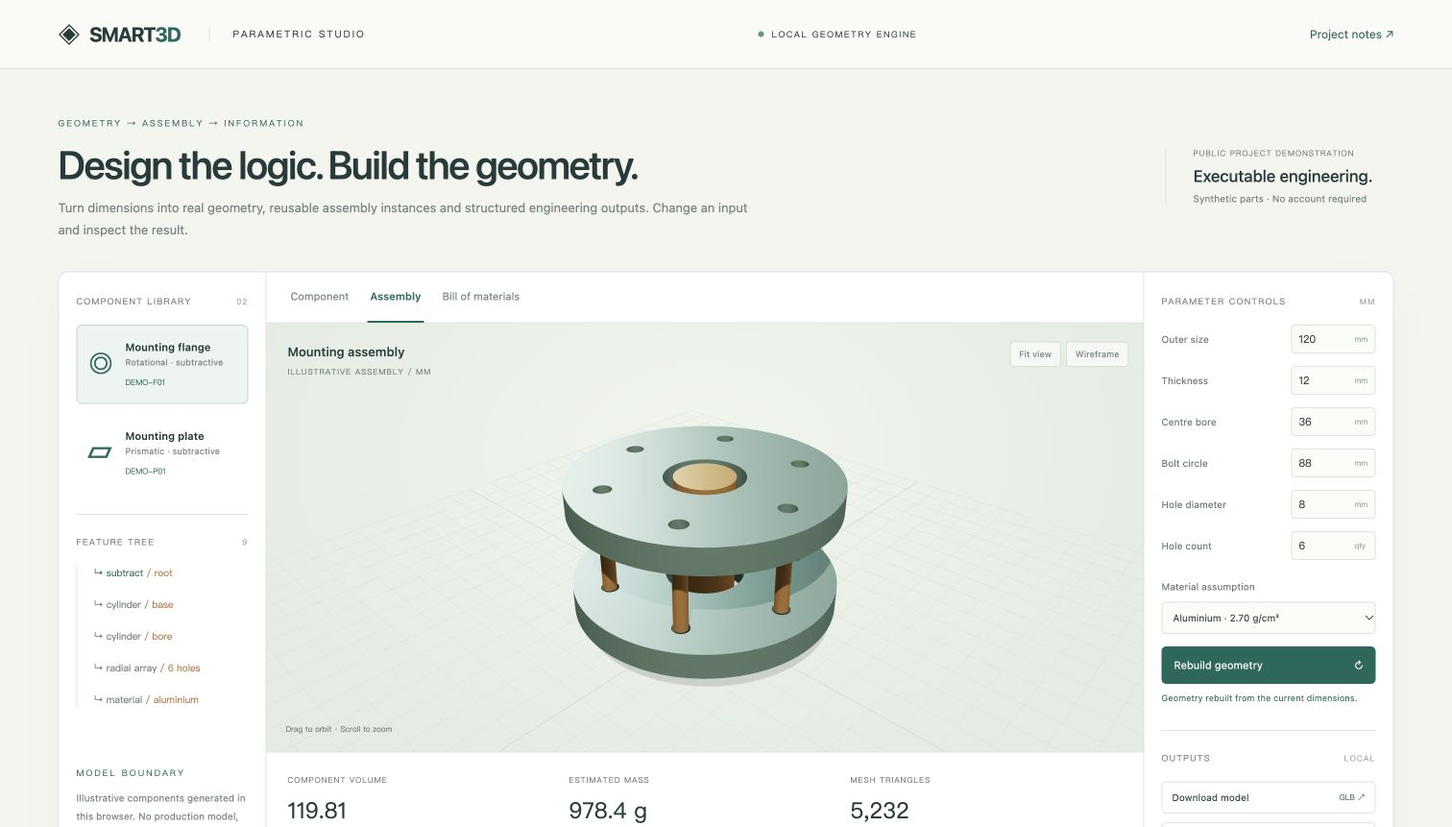
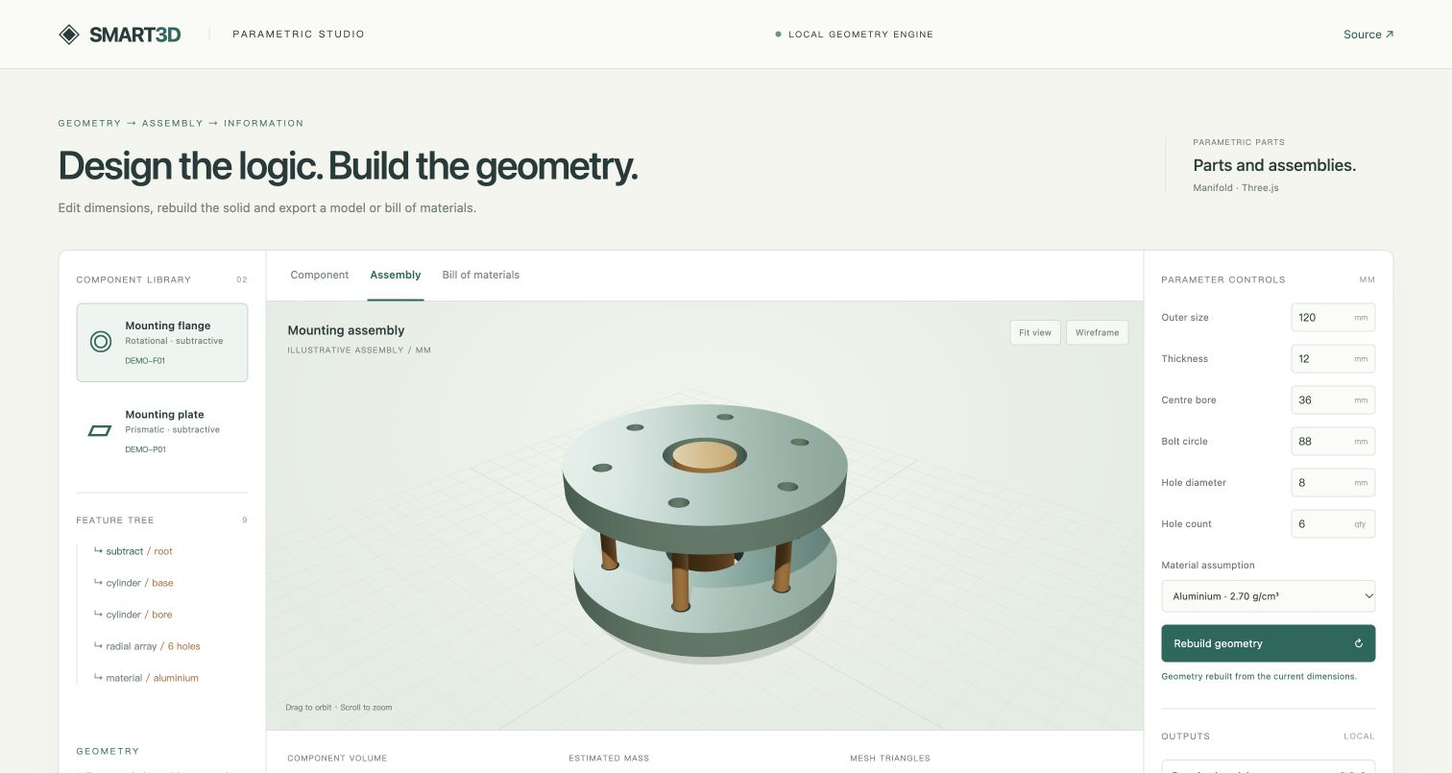
Track source and shorten project notes

diff --git a/index.html b/index.html
@@ -1,11 +1,9 @@
-<!doctype html><html lang="en" translate="no"><head><meta charset="UTF-8"><meta name="viewport" content="width=device-width,initial-scale=1"><meta name="referrer" content="no-referrer"><title>SMART3D · Parametric Studio</title>  <script type="module" crossorigin src="./app.js"></script>
-  <link rel="stylesheet" crossorigin href="./index.css">
-</head><body>
-<header class="topbar"><a class="brand" href="./">◈ <b>SMART<span>3D</span></b><i>PARAMETRIC STUDIO</i></a><span class="status"><i></i> LOCAL GEOMETRY ENGINE</span><a href="#project">Project notes ↗</a></header>
-<div class="intro"><div><span class="eyebrow">GEOMETRY → ASSEMBLY → INFORMATION</span><h1>Design the logic. Build the geometry.</h1><p>Turn dimensions into real geometry, reusable assembly instances and structured engineering outputs. Change an input and inspect the result.</p></div><div class="project-label"><span>PUBLIC PROJECT DEMONSTRATION</span><b>Executable engineering.</b><small>Synthetic parts · No account required</small></div></div>
-<main class="studio"><aside class="library"><div class="panel-heading">COMPONENT LIBRARY<span>02</span></div><button class="part active" data-part="flange"><span class="part-icon">◎</span><b>Mounting flange</b><small>Rotational · subtractive</small><em>DEMO-F01</em></button><button class="part" data-part="plate"><span class="part-icon">▱</span><b>Mounting plate</b><small>Prismatic · subtractive</small><em>DEMO-P01</em></button><div class="divider"></div><div class="panel-heading">FEATURE TREE<span id="node-count">—</span></div><ol class="tree" id="feature-tree"></ol><div class="library-note"><span class="eyebrow">MODEL BOUNDARY</span><p>Illustrative components generated in this browser. No production model, tenant record or backend service is connected.</p></div></aside>
-<section class="viewport-panel"><nav class="tabs" aria-label="Studio view"><button data-mode="component" aria-pressed="true">Component</button><button data-mode="assembly" aria-pressed="false">Assembly</button><button data-mode="bom" aria-pressed="false">Bill of materials</button></nav><div class="viewport" id="viewport"><div class="viewport-label"><b id="part-title">Mounting flange</b><span id="view-subtitle">PARAMETRIC COMPONENT / MM</span></div><div class="view-tools"><button id="fit">Fit view</button><button id="wire" aria-pressed="false">Wireframe</button></div><div class="view-tip">Drag to orbit · Scroll to zoom</div><div id="loading" role="status">Preparing geometry engine…</div></div><div class="metrics"><div><small>COMPONENT VOLUME</small><b id="volume">—</b><span>cm³ / discretised mesh</span></div><div><small>ESTIMATED MASS</small><b id="mass">—</b><span id="density-note">density assumption</span></div><div><small>MESH TRIANGLES</small><b id="triangles">—</b><span>Computed mesh, not a benchmark</span></div></div></section>
-<aside class="properties"><div class="panel-heading">PARAMETER CONTROLS<span>MM</span></div><form id="parameters"><label>Outer size <div><input name="outer" type="number" min="60" max="200" step="1" value="120" required><span>mm</span></div></label><label>Thickness <div><input name="thickness" type="number" min="4" max="30" step="1" value="12" required><span>mm</span></div></label><label>Centre bore <div><input name="bore" type="number" min="8" max="80" step="1" value="36" required><span>mm</span></div></label><label>Bolt circle <div><input name="pitch" type="number" min="35" max="170" step="1" value="88" required><span>mm</span></div></label><label>Hole diameter <div><input name="hole" type="number" min="3" max="16" step="1" value="8" required><span>mm</span></div></label><label>Hole count <div><input name="count" type="number" min="3" max="12" step="1" value="6" required><span>qty</span></div></label><label>Material assumption<select name="material"><option value="aluminium">Aluminium · 2.70 g/cm³</option><option value="steel">Steel · 7.85 g/cm³</option><option value="polymer">Polymer · 1.20 g/cm³</option></select></label><button class="primary" type="submit">Rebuild geometry <span>↻</span></button></form><div id="notice" role="status"></div><div class="divider"></div><div class="panel-heading">OUTPUTS<span>LOCAL</span></div><button class="output" id="export-glb">Download model <span>GLB ↗</span></button><button class="output" id="export-bom">Download BOM <span>CSV ↗</span></button><button class="output" id="export-params">Download parameters <span>JSON ↗</span></button><p class="fine">Mass is derived from mesh volume and an assumed density. No strength, tolerance or manufacturing suitability is asserted.</p></aside></main>
+<!doctype html><html lang="en" translate="no"><head><meta charset="UTF-8"><meta name="viewport" content="width=device-width,initial-scale=1"><meta name="referrer" content="no-referrer"><title>SMART3D · Parametric Studio</title></head><body>
+<header class="topbar"><a class="brand" href="./">◈ <b>SMART<span>3D</span></b><i>PARAMETRIC STUDIO</i></a><span class="status"><i></i> LOCAL GEOMETRY ENGINE</span><a href="https://github.com/007jackiegao-cmd/smart3d-showcase">Source ↗</a></header>
+<div class="intro"><div><span class="eyebrow">GEOMETRY → ASSEMBLY → INFORMATION</span><h1>Design the logic. Build the geometry.</h1><p>Edit dimensions, rebuild the solid and export a model or bill of materials.</p></div><div class="project-label"><span>PARAMETRIC PARTS</span><b>Parts and assemblies.</b><small>Manifold · Three.js</small></div></div>
+<main class="studio"><aside class="library"><div class="panel-heading">COMPONENT LIBRARY<span>02</span></div><button class="part active" data-part="flange"><span class="part-icon">◎</span><b>Mounting flange</b><small>Rotational · subtractive</small><em>DEMO-F01</em></button><button class="part" data-part="plate"><span class="part-icon">▱</span><b>Mounting plate</b><small>Prismatic · subtractive</small><em>DEMO-P01</em></button><div class="divider"></div><div class="panel-heading">FEATURE TREE<span id="node-count">—</span></div><ol class="tree" id="feature-tree"></ol><div class="library-note"><span class="eyebrow">GEOMETRY</span><p>A flange and plate with a centre bore and radial hole array.</p></div></aside>
+<section class="viewport-panel"><nav class="tabs" aria-label="Studio view"><button data-mode="component" aria-pressed="true">Component</button><button data-mode="assembly" aria-pressed="false">Assembly</button><button data-mode="bom" aria-pressed="false">Bill of materials</button></nav><div class="viewport" id="viewport"><div class="viewport-label"><b id="part-title">Mounting flange</b><span id="view-subtitle">PARAMETRIC COMPONENT / MM</span></div><div class="view-tools"><button id="fit">Fit view</button><button id="wire" aria-pressed="false">Wireframe</button></div><div class="view-tip">Drag to orbit · Scroll to zoom</div><div id="loading" role="status">Preparing geometry engine…</div></div><div class="metrics"><div><small>COMPONENT VOLUME</small><b id="volume">—</b><span>cm³ / discretised mesh</span></div><div><small>ESTIMATED MASS</small><b id="mass">—</b><span id="density-note">density assumption</span></div><div><small>MESH TRIANGLES</small><b id="triangles">—</b><span>Current mesh</span></div></div></section>
+<aside class="properties"><div class="panel-heading">PARAMETER CONTROLS<span>MM</span></div><form id="parameters"><label>Outer size <div><input name="outer" type="number" min="60" max="200" step="1" value="120" required><span>mm</span></div></label><label>Thickness <div><input name="thickness" type="number" min="4" max="30" step="1" value="12" required><span>mm</span></div></label><label>Centre bore <div><input name="bore" type="number" min="8" max="80" step="1" value="36" required><span>mm</span></div></label><label>Bolt circle <div><input name="pitch" type="number" min="35" max="170" step="1" value="88" required><span>mm</span></div></label><label>Hole diameter <div><input name="hole" type="number" min="3" max="16" step="1" value="8" required><span>mm</span></div></label><label>Hole count <div><input name="count" type="number" min="3" max="12" step="1" value="6" required><span>qty</span></div></label><label>Material assumption<select name="material"><option value="aluminium">Aluminium · 2.70 g/cm³</option><option value="steel">Steel · 7.85 g/cm³</option><option value="polymer">Polymer · 1.20 g/cm³</option></select></label><button class="primary" type="submit">Rebuild geometry <span>↻</span></button></form><div id="notice" role="status"></div><div class="divider"></div><div class="panel-heading">OUTPUTS<span>LOCAL</span></div><button class="output" id="export-glb">Download model <span>GLB ↗</span></button><button class="output" id="export-bom">Download BOM <span>CSV ↗</span></button><button class="output" id="export-params">Download parameters <span>JSON ↗</span></button><p class="fine">Mass = mesh volume × selected density.</p></aside></main>
 <section class="bom-section" id="bom-section" hidden><div class="section-title"><div><span class="eyebrow">ASSEMBLY INFORMATION</span><h2>From instances to a bill of materials.</h2></div><p>Two matching components, one shaft and a circular spacer array. Quantities and mass follow the current parameters.</p></div><table><thead><tr><th>Part</th><th>Specification</th><th>Material</th><th>Quantity</th><th>Unit mass / g</th><th>Total / g</th></tr></thead><tbody id="bom-body"></tbody></table></section>
-<section class="case-study" id="project"><div><span class="eyebrow">THE PROJECT</span><h2>Design intent.<br>Connected outputs.</h2><p>SMART3D connects parametric part definitions, solid geometry, assembly composition and engineering information in one inspectable workflow.</p><a href="ARCHITECTURE.md">Explore the architecture ↗</a></div><div class="capabilities"><article><span>01 / DEFINE</span><h3>Parametric design intent</h3><p>The private project includes expression-driven shape trees, parameter overrides and component versions. This public demo exposes a focused set of dimensions.</p></article><article><span>02 / COMPOSE</span><h3>Reusable parts. Connected assemblies.</h3><p>The project separates reusable component definitions from their placed instances. Here, a simple mounting set makes the distinction visible.</p></article><article><span>03 / TRACE</span><h3>Geometry with traceable information</h3><p>Follow the resulting mesh through volume, density-based mass, quantity aggregation and GLB/CSV export.</p></article><article><span>04 / EXTEND</span><h3>An explicit contract for future AI</h3><p>Natural-language modelling has a defined contract in the source project. The LLM parser is reserved and is not active in this demonstration.</p></article></div></section>
-<footer><span>SMART3D · Research & engineering prototype</span><span>AI-assisted public presentation · Manifold + Three.js · <a href="VALIDATION.md">Validation & limits ↗</a></span></footer></body></html>
+
+<footer><span>SMART3D</span><span>Manifold · Three.js</span></footer><script type="module" src="./studio.js"></script></body></html>

diff --git a/studio.css b/studio.css
@@ -1,0 +1,1 @@
+:root{--paper:#f5f5f0;--panel:#fff;--ink:#233b3a;--muted:#748580;--line:#dce3df;--teal:#12695c;--accent:#c7804a;font-family:Inter,-apple-system,BlinkMacSystemFont,"Segoe UI",sans-serif;color:var(--ink);background:var(--paper);font-synthesis:none}*{box-sizing:border-box}body{margin:0}button,input,select{font:inherit}button{cursor:pointer}a{color:var(--teal);text-decoration:none}a:hover{text-decoration:underline}.topbar{height:72px;padding:0 4vw;display:flex;align-items:center;justify-content:space-between;border-bottom:1px solid var(--line);background:#fafbf7}.brand{display:flex;gap:10px;align-items:center;color:var(--ink);font-size:26px}.brand b{font-size:21px;letter-spacing:-1px}.brand b span{color:var(--teal)}.brand i{font:10px ui-monospace;letter-spacing:2px;font-style:normal;margin-left:20px;padding-left:24px;border-left:1px solid var(--line)}.topbar>a:last-child{font-size:12px}.status{font:9px ui-monospace;letter-spacing:1.5px;display:flex;gap:8px;align-items:center}.status i{width:6px;height:6px;background:#4f9b72;border-radius:50%}.intro{max-width:1580px;margin:auto;display:flex;justify-content:space-between;gap:28px;padding:44px 4vw 32px}.eyebrow{font:9px ui-monospace;letter-spacing:2px;color:var(--teal)}h1{font-size:clamp(25px,3vw,41px);letter-spacing:-1.5px;font-weight:550;margin:12px 0 10px}p{font-size:13px;line-height:1.75;color:var(--muted);margin:0}.intro p{max-width:720px}.project-label{align-self:center;border-left:1px solid var(--line);padding-left:28px;min-width:238px;display:grid;gap:8px}.project-label>span{font:8px ui-monospace;letter-spacing:1px;color:var(--muted)}.project-label>b{font-size:17px;font-weight:500}.project-label>small{font-size:10px;color:var(--muted)}.studio{margin:0 auto;max-width:1460px;width:92%;display:grid;grid-template-columns:216px minmax(360px,1fr) 260px;border:1px solid var(--line);border-radius:10px;overflow:hidden;background:var(--panel);box-shadow:0 18px 44px #32494008}.library,.properties{padding:24px 18px}.library{border-right:1px solid var(--line)}.properties{border-left:1px solid var(--line)}.panel-heading{font:9px ui-monospace;letter-spacing:1.25px;display:flex;justify-content:space-between;align-items:center;margin-bottom:18px;color:var(--muted)}.panel-heading>span{font-size:8px;color:#94a59f}.part{display:grid;grid-template-columns:34px 1fr;gap:4px 6px;text-align:left;width:100%;border:1px solid transparent;background:none;padding:16px 10px;border-radius:6px;margin-bottom:10px;color:var(--ink)}.part.active{background:#edf4ef;border-color:#c3d8cc}.part-icon{grid-row:1/4;font-size:29px;color:var(--teal);line-height:1.6}.part b{font-size:11px;font-weight:600}.part small{font-size:9px;color:var(--muted)}.part em{font:8px ui-monospace;color:var(--teal);font-style:normal;margin-top:6px}.divider{height:1px;background:var(--line);margin:22px 0}.tree{padding:0 0 0 17px;margin:0;border-left:1px solid var(--line);list-style:none;font:10px ui-monospace;color:var(--muted)}.tree li{margin:17px 0;line-height:1.6}.tree li:first-child{color:var(--teal)}.tree i{color:#bc7847;font-style:normal}.library-note{margin-top:56px}.library-note p{font-size:10px;line-height:1.9;margin-top:10px}.tabs{display:flex;gap:16px;padding:0 22px;height:53px;align-items:center;border-bottom:1px solid var(--line)}.tabs button{height:53px;border:0;border-bottom:2px solid transparent;background:none;color:var(--muted);font-size:11px;padding:0 3px}.tabs button[aria-pressed=true]{border-color:var(--teal);color:var(--teal);font-weight:600}.viewport{height:446px;position:relative;background:radial-gradient(ellipse at 50% 30%,#f0f5ed,#e3ece3 82%);overflow:hidden}.viewport canvas{position:absolute;inset:0;display:block;touch-action:none}.viewport-label{position:absolute;z-index:2;left:22px;top:22px;display:grid;gap:8px;pointer-events:none}.viewport-label b{font-size:13px;font-weight:550}.viewport-label span{font:8px ui-monospace;letter-spacing:1px;color:var(--muted)}.view-tools{position:absolute;top:19px;right:15px;display:flex;gap:5px;z-index:2}.view-tools button{padding:7px 9px;border:1px solid #d2dfd3;background:#f9fbf7c9;border-radius:4px;color:var(--muted);font-size:9px}.view-tools button[aria-pressed=true]{color:var(--teal);border-color:var(--teal)}.view-tip{position:absolute;bottom:18px;left:20px;font:8px ui-monospace;color:var(--muted);z-index:2}.metrics{display:grid;grid-template-columns:repeat(3,1fr);padding:23px 22px;border-top:1px solid var(--line);gap:10px}.metrics>div{display:grid;gap:10px}.metrics small{font:8px ui-monospace;letter-spacing:1px;color:var(--muted)}.metrics b{font:23px ui-monospace;color:var(--ink)}.metrics span{font-size:8px;color:var(--muted)}form label{font-size:10px;color:#647770;display:grid;grid-template-columns:1fr 88px;align-items:center;margin-bottom:13px}form label>div{display:flex;align-items:center;border:1px solid var(--line);border-radius:4px;height:30px;background:#fbfcf8}form label input{width:65px;border:0;background:none;padding:5px 7px;font:11px ui-monospace;color:var(--ink)}form label input:focus{outline:none}form label:focus-within>div{border-color:var(--teal)}form label>div>span{font:8px ui-monospace;color:#98aaa1}form label:has(select){display:block;margin-top:22px}select{width:100%;border:1px solid var(--line);border-radius:4px;background:#fbfcf8;padding:9px 7px;color:var(--ink);font-size:10px;margin-top:10px}.primary{width:100%;background:var(--teal);color:#fff;border:0;border-radius:5px;padding:13px;margin-top:8px;font-size:11px;display:flex;justify-content:space-between;align-items:center}.output{width:100%;display:flex;justify-content:space-between;background:none;border:1px solid var(--line);border-radius:5px;padding:10px;margin-bottom:9px;text-align:left;color:var(--ink);font-size:10px}.output>span{font:8px ui-monospace;color:var(--teal)}.fine{font-size:9px;line-height:1.8;margin-top:15px}#notice{min-height:18px;font-size:9px;color:var(--teal);line-height:1.5;margin-top:8px}#notice.error{color:#b85039}#loading{position:absolute;inset:0;display:grid;place-items:center;font-size:13px;background:#eff4eddf;z-index:3}#loading[hidden]{display:none}.bom-section,.case-study{max-width:1460px;margin:44px auto;width:92%}.section-title{display:flex;justify-content:space-between;gap:40px;align-items:end;margin-bottom:25px}.section-title p{max-width:460px;font-size:11px}h2{font-size:29px;line-height:1.3;font-weight:500;letter-spacing:-1px;margin:14px 0 20px}table{width:100%;border-collapse:collapse;background:#fff;font-size:11px}th,td{text-align:left;padding:15px 18px;border-bottom:1px solid var(--line)}th{background:#edf3ed;color:var(--muted);font:9px ui-monospace}.case-study{padding:50px 0;display:grid;grid-template-columns:1fr 1.4fr;gap:100px;border-top:1px solid var(--line);margin-top:75px}.case-study>div:first-child>p{max-width:400px;margin-bottom:24px}.case-study a{font-size:11px}.capabilities{display:grid;grid-template-columns:1fr 1fr;gap:34px}.capabilities article>span{font:9px ui-monospace;color:var(--teal)}.capabilities h3{font-size:14px;font-weight:550;margin:12px 0}.capabilities p{font-size:11px}footer{border-top:1px solid var(--line);padding:25px 4vw;display:flex;justify-content:space-between;font:9px ui-monospace;color:var(--muted)}:focus-visible{outline:2px solid var(--teal);outline-offset:3px}@media(min-width:1600px){.viewport{height:540px}}@media(max-width:1100px){.studio{grid-template-columns:175px minmax(250px,1fr) 230px}.library,.properties{padding:19px 13px}.tabs{gap:9px;padding:0 13px}.tabs button{font-size:10px}.project-label{display:none}}@media(max-width:800px){.brand i,.status{display:none}.intro{padding-top:30px}.studio{grid-template-columns:1fr}.library{display:none}.properties{border-left:0;border-top:1px solid var(--line)}form{display:grid;grid-template-columns:1fr 1fr;gap:5px 22px}form label{margin-bottom:8px}.primary{align-self:end;margin-bottom:8px}.viewport{height:370px}.metrics b{font-size:20px}.case-study{grid-template-columns:1fr;gap:30px;margin-top:45px}.section-title{display:block}th,td{padding:10px 7px;font-size:9px}.section-title p{margin:0 0 15px}footer{display:grid;gap:15px}.view-tools{top:62px}}

diff --git a/studio.js b/studio.js
@@ -1,0 +1,41 @@
+import './studio.css';
+import * as THREE from 'three';
+import {OrbitControls} from 'three/addons/controls/OrbitControls.js';
+import {GLTFExporter} from 'three/addons/exporters/GLTFExporter.js';
+import Module from 'manifold-3d';
+import wasmUrl from 'manifold-3d/manifold.wasm?url';
+import {buildPart,holes,summary,densities} from './geometry-demo.js';
+const $=id=>document.getElementById(id),form=$('parameters');let mode='component',kind='flange',wire=false,current,params,geometry,engine;
+const area=$('viewport');const scene=new THREE.Scene();const camera=new THREE.PerspectiveCamera(34,1,.1,3000);camera.up.set(0,0,1);camera.position.set(185,-200,155);
+const renderer=new THREE.WebGLRenderer({antialias:true,alpha:true});renderer.setPixelRatio(Math.min(devicePixelRatio,2));renderer.setClearColor(0xffffff,0);renderer.shadowMap.enabled=true;renderer.shadowMap.type=THREE.PCFSoftShadowMap;renderer.toneMapping=THREE.ACESFilmicToneMapping;renderer.toneMappingExposure=1.35;area.appendChild(renderer.domElement);renderer.domElement.setAttribute('aria-label','Interactive parametric 3D model');
+const controls=new OrbitControls(camera,renderer.domElement);controls.enableDamping=true;controls.dampingFactor=.08;controls.minDistance=65;controls.maxDistance=650;
+scene.add(new THREE.HemisphereLight(0xffffff,0xa2b0a5,2.4));const light=new THREE.DirectionalLight(0xfff5df,4);light.position.set(150,-200,300);light.castShadow=true;light.shadow.mapSize.set(2048,2048);light.shadow.camera.left=-210;light.shadow.camera.right=210;light.shadow.camera.top=210;light.shadow.camera.bottom=-210;light.shadow.bias=-.0001;scene.add(light);const rim=new THREE.DirectionalLight(0xbbd9d3,2);rim.position.set(-150,100,100);scene.add(rim);
+const grid=new THREE.GridHelper(420,28,0x9cb5a3,0xccd8cb);grid.rotation.x=Math.PI/2;grid.position.z=-45;grid.material.transparent=true;grid.material.opacity=.55;scene.add(grid);
+const floor=new THREE.Mesh(new THREE.PlaneGeometry(700,700),new THREE.ShadowMaterial({opacity:.13}));floor.position.z=-45;floor.receiveShadow=true;scene.add(floor);
+const group=new THREE.Group();scene.add(group);
+new ResizeObserver(()=>{const w=area.clientWidth,h=area.clientHeight;camera.aspect=w/h;camera.updateProjectionMatrix();renderer.setSize(w,h);}).observe(area);
+renderer.setAnimationLoop(()=>{controls.update();renderer.render(scene,camera);});
+function read(){const v=Object.fromEntries(new FormData(form));for(const k of ['outer','thickness','bore','pitch','hole','count'])v[k]=Number(v[k]);return v;}
+function material(){const colours={aluminium:0x708b85,steel:0x647481,polymer:0xcd955a};return new THREE.MeshStandardMaterial({color:colours[params.material],metalness:params.material==='polymer'?.1:.62,roughness:.47,wireframe:wire});}
+function clear(){for(const obj of [...group.children]){group.remove(obj);if(obj.userData.uniqueGeometry)obj.geometry.dispose();obj.material.dispose();}}
+function add(geo,mat,pos=[0,0,0],unique=false){const mesh=new THREE.Mesh(geo,mat);mesh.position.set(...pos);mesh.castShadow=true;mesh.receiveShadow=true;mesh.userData.uniqueGeometry=unique;group.add(mesh);return mesh;}
+function solidCylinder(r,height,pos){const geo=new THREE.CylinderGeometry(r,r,height,48);geo.rotateX(Math.PI/2);add(geo,new THREE.MeshStandardMaterial({color:0xbd8750,metalness:.65,roughness:.34,wireframe:wire}),pos,true);}
+function populate(){
+ clear();const assembly=mode!=='component';if(assembly){const z=18+params.thickness/2;add(geometry,material(),[0,0,-z]);add(geometry,material(),[0,0,z]);for(const [x,y] of holes(params))solidCylinder(params.hole*.4,36,[x,y,0]);solidCylinder(params.bore*.38,36+2*params.thickness,[0,0,0]);}else add(geometry,material());
+ const rows=summary(current,params,assembly);$('bom-body').innerHTML=rows.map(r=>`<tr><td>${r.part}</td><td>${r.spec}</td><td>${r.material}</td><td>${r.qty}</td><td>${r.unitMass.toFixed(2)}</td><td>${r.totalMass.toFixed(2)}</td></tr>`).join('');
+ $('volume').textContent=(current.volume/1000).toFixed(2);$('mass').textContent=rows.reduce((a,r)=>a+r.totalMass,0).toFixed(1)+' g';$('density-note').textContent=assembly?'Assembly total · density assumptions':`${densities[params.material].toFixed(2)} g/cm³ · assumed`;let triangles=0;group.traverse(x=>{if(x.isMesh)triangles+=(x.geometry.index?.count||x.geometry.attributes.position.count)/3;});$('triangles').textContent=Math.round(triangles).toLocaleString('en-US');
+ $('part-title').textContent=(assembly?'Mounting assembly':kind==='flange'?'Mounting flange':'Mounting plate');$('view-subtitle').textContent=assembly?'ILLUSTRATIVE ASSEMBLY / MM':'PARAMETRIC COMPONENT / MM';$('bom-section').hidden=mode!=='bom';
+ $('feature-tree').innerHTML=`<li>↳ subtract <i>/ root</i></li><li>↳ ${kind==='flange'?'cylinder':'box'} <i>/ base</i></li><li>↳ cylinder <i>/ bore</i></li><li>↳ radial array <i>/ ${params.count} holes</i></li><li>↳ material <i>/ ${params.material}</i></li>`;$('node-count').textContent=String(params.count+3);
+}
+function rebuild(){try{const p=read(),next=buildPart(engine.Manifold,p,kind);params=p;current=next;clear();if(geometry)geometry.dispose();geometry=new THREE.BufferGeometry();geometry.setAttribute('position',new THREE.BufferAttribute(current.positions,3));geometry.setIndex(new THREE.BufferAttribute(current.indices,1));geometry=geometry.toNonIndexed();geometry.computeVertexNormals();populate();$('notice').textContent='Geometry rebuilt from the current dimensions.';$('notice').className='';}catch(e){$('notice').textContent=e.message;$('notice').className='error';}}
+form.addEventListener('submit',e=>{e.preventDefault();if(engine)rebuild();});
+for(const b of document.querySelectorAll('[data-mode]'))b.addEventListener('click',()=>{mode=b.dataset.mode;document.querySelectorAll('[data-mode]').forEach(x=>x.setAttribute('aria-pressed',String(x===b)));if(current)populate();if(mode==='bom')$('bom-section').scrollIntoView({behavior:matchMedia('(prefers-reduced-motion: reduce)').matches?'instant':'smooth',block:'nearest'});});
+for(const b of document.querySelectorAll('[data-part]'))b.addEventListener('click',()=>{kind=b.dataset.part;document.querySelectorAll('[data-part]').forEach(x=>x.classList.toggle('active',x===b));if(engine)rebuild();});
+$('fit').addEventListener('click',()=>{camera.position.set(185,-200,155);controls.target.set(0,0,0);controls.update();});$('wire').addEventListener('click',()=>{wire=!wire;$('wire').setAttribute('aria-pressed',String(wire));if(current)populate();});
+function download(data,name,type){const blob=data instanceof Blob?data:new Blob([data],{type});const url=URL.createObjectURL(blob),a=document.createElement('a');a.href=url;a.download=name;a.click();setTimeout(()=>URL.revokeObjectURL(url),1000);$('notice').textContent='File exported.';}
+$('export-params').addEventListener('click',()=>{if(current)download(JSON.stringify({demo:true,part:kind,units:'mm',parameters:params},null,2),'smart3d-parameters.json','application/json');});
+$('export-bom').addEventListener('click',()=>{if(!current)return;const rows=summary(current,params,mode!=='component');const quote=s=>'"'+String(s).replaceAll('"','""')+'"';download('Part,Specification,Material,Quantity,Unit mass (g),Total mass (g)\n'+rows.map(r=>[r.part,r.spec,r.material,r.qty,r.unitMass.toFixed(3),r.totalMass.toFixed(3)].map(quote).join(',')).join('\n'),'smart3d-bom.csv','text/csv');});
+$('export-glb').addEventListener('click',async()=>{if(!current)return;try{const model=group.clone(true);model.scale.setScalar(.001);const buffer=await new GLTFExporter().parseAsync(model,{binary:true,onlyVisible:true});download(buffer,'smart3d-demo.glb','model/gltf-binary');}catch(e){$('notice').textContent='Export failed: '+e.message;}});
+async function initialize(){try{engine=await Module({locateFile:()=>wasmUrl});engine.setup();rebuild();$('loading').hidden=true;}catch(e){$('loading').textContent='Geometry engine could not load. Reload the page to retry.';$('notice').textContent=e.message;}
+}
+initialize();

diff --git a/migrate-source.py b/migrate-source.py
@@ -1,0 +1,5 @@
+from pathlib import Path
+
+for filename in ['ARCHITECTURE.md', 'PROJECT_OVERVIEW.md', 'PROVENANCE.md', 'VALIDATION.md', 'app.js', 'chunk-__vite-browser-external.js', 'demo-source.zip', 'example-assembly.glb', 'index.css', 'manifold.js', 'manifold.wasm']:
+    Path(filename).unlink(missing_ok=True)
+Path(__file__).unlink()

diff --git a/README.md b/README.md
@@ -1,75 +1,21 @@
-# SMART3D · Parametric Design & Assembly
+# SMART3D
 
-### From design intent to geometry, assemblies and structured engineering data.
+Parametric parts and assemblies built with Manifold and Three.js.
 
-SMART3D presents an integrated engineering workflow in which **parameters define a part, geometry resolves its form, instances create an assembly, and the same inputs drive a bill of materials and portable model outputs**.
+[Open studio](https://007jackiegao-cmd.github.io/smart3d-showcase/)
 
-The result is an executable case study in computational geometry, web-based CAD and engineering information systems: inspect the model, change its dimensions, rebuild the solid and trace the consequences through the assembly.
+- Edit flange or plate dimensions and rebuild the solid.
+- View the component, assembly or bill of materials.
+- Export GLB geometry, a CSV bill of materials or JSON parameters.
+- Read volume, material-based mass and triangle count from the current model.
 
-**[Launch the interactive workbench](https://007jackiegao-cmd.github.io/smart3d-showcase/)** · [Architecture](ARCHITECTURE.md) · [Project overview](PROJECT_OVERVIEW.md) · [Validation](VALIDATION.md)
-
-![Interactive assembly workbench](assembly-preview.jpg)
-
-## Engineering capabilities you can inspect
-
-| Capability | What the workbench delivers |
-|---|---|
-| **Parametric solid modelling** | Dimension-driven flange and plate constructors with centre bores and configurable radial hole patterns |
-| **Real CSG computation** | Manifold mesh Boolean operations executed locally through WebAssembly |
-| **Interactive 3D inspection** | Orbit, zoom, fit-to-view and wireframe rendering through Three.js |
-| **Assembly composition** | Reusable component geometry placed into a mounting assembly with a shaft and spacer array |
-| **Connected engineering information** | Quantity aggregation, computed component volume and mass estimates using explicit density assumptions |
-| **Portable deliverables** | GLB models, BOM CSV and parameter JSON generated directly in the browser |
-
-This is a working, inspectable demonstration. The figures shown in the interface are calculated from the current inputs. Screenshots depict the running application.
-
-![Parametric component editor](component-preview.jpg)
-
-## Technical depth behind the workflow
-
-The wider source project combines **Vue 3, TypeScript and Three.js** with a **FastAPI/Python geometry service, Manifold, SQLAlchemy and PostgreSQL**. Its modules cover component versions, expression-driven shape trees, geometry plugins, assembly editing, material information, hierarchical BOM processing and model publication.
-
-The public workbench distils that architecture into a self-contained demonstration with synthetic components. It gives reviewers a direct way to examine the geometry-to-information workflow while the original backend and private runtime material remain outside the public repository.
-
-## Evidence of computational correctness
-
-- **75 existing computational tests passed** in an isolated copy of the source project, covering expressions, geometry, Boolean operations, profiles, export and node-level splitting.
-- **12 public-demo checks passed**, covering polygonal volume references, closed mesh edges, valid coordinates, clearance guards, radial placement and BOM aggregation.
-- **Browser-exported GLB and BOM files were independently checked.** The tested assembly GLB contained the expected 11 mesh instances and the intended export scale.
-- **The deployed workbench was exercised** through parameter rebuilding, assembly inspection and the linked portfolio entry.
-
-See [validation and test scope](VALIDATION.md) for reproducible checks and practical limits. These results cover the named computational and demonstration paths, rather than the complete database-backed application.
-
-## Run locally
-
-The repository contains the ready-to-serve application:
+## Run
 
 ```sh
-python3 -m http.server 8080 --bind 127.0.0.1
+npm ci
+npm run dev
+npm test
+npm run build
 ```
 
-Open `http://localhost:8080` in a recent browser with WebGL and WebAssembly support. Dependencies are included locally; the demo needs no account, provider key or external data feed.
-
-To inspect the public geometry implementation and run its checks:
-
-```sh
-npm ci --ignore-scripts
-node test-demo.mjs
-```
-
-`geometry-demo.js` is the unminified demonstration kernel. `demo-source.zip` contains the full public demonstration source and build configuration.
-
-## Scope and provenance
-
-The public workbench and presentation were prepared with AI assistance as a focused demonstration of the project's engineering workflow. Components, identifiers and material scenarios are synthetic. Mass estimates use explicit density assumptions; they are not manufacturing or structural certification.
-
-The wider project defines a natural-language modelling contract. Its LLM parser is reserved and is not active. Complete database-backed deployment, production security and planning-document performance targets are outside the validation claims made here.
-
-No biography, personal contacts, credentials, tenant records, database backups or original runtime assets are included. See [publication provenance](PROVENANCE.md).
-
-## Dependencies
-
-- **Three.js 0.172.0** — MIT · [upstream](https://github.com/mrdoob/three.js)
-- **Manifold 3.1.0** — Apache-2.0 · [upstream](https://github.com/elalish/manifold)
-
-Bundled libraries retain their licenses and attribution. Manifold provides the mesh Boolean algorithm. No additional reuse license is granted for private source material by this showcase.
+`geometry-demo.js` creates the solids and calculates quantities. `studio.js` manages the viewport, controls and exports; `studio.css` styles the interface. All dimensions are in millimetres. Mass uses mesh volume and the selected density.
